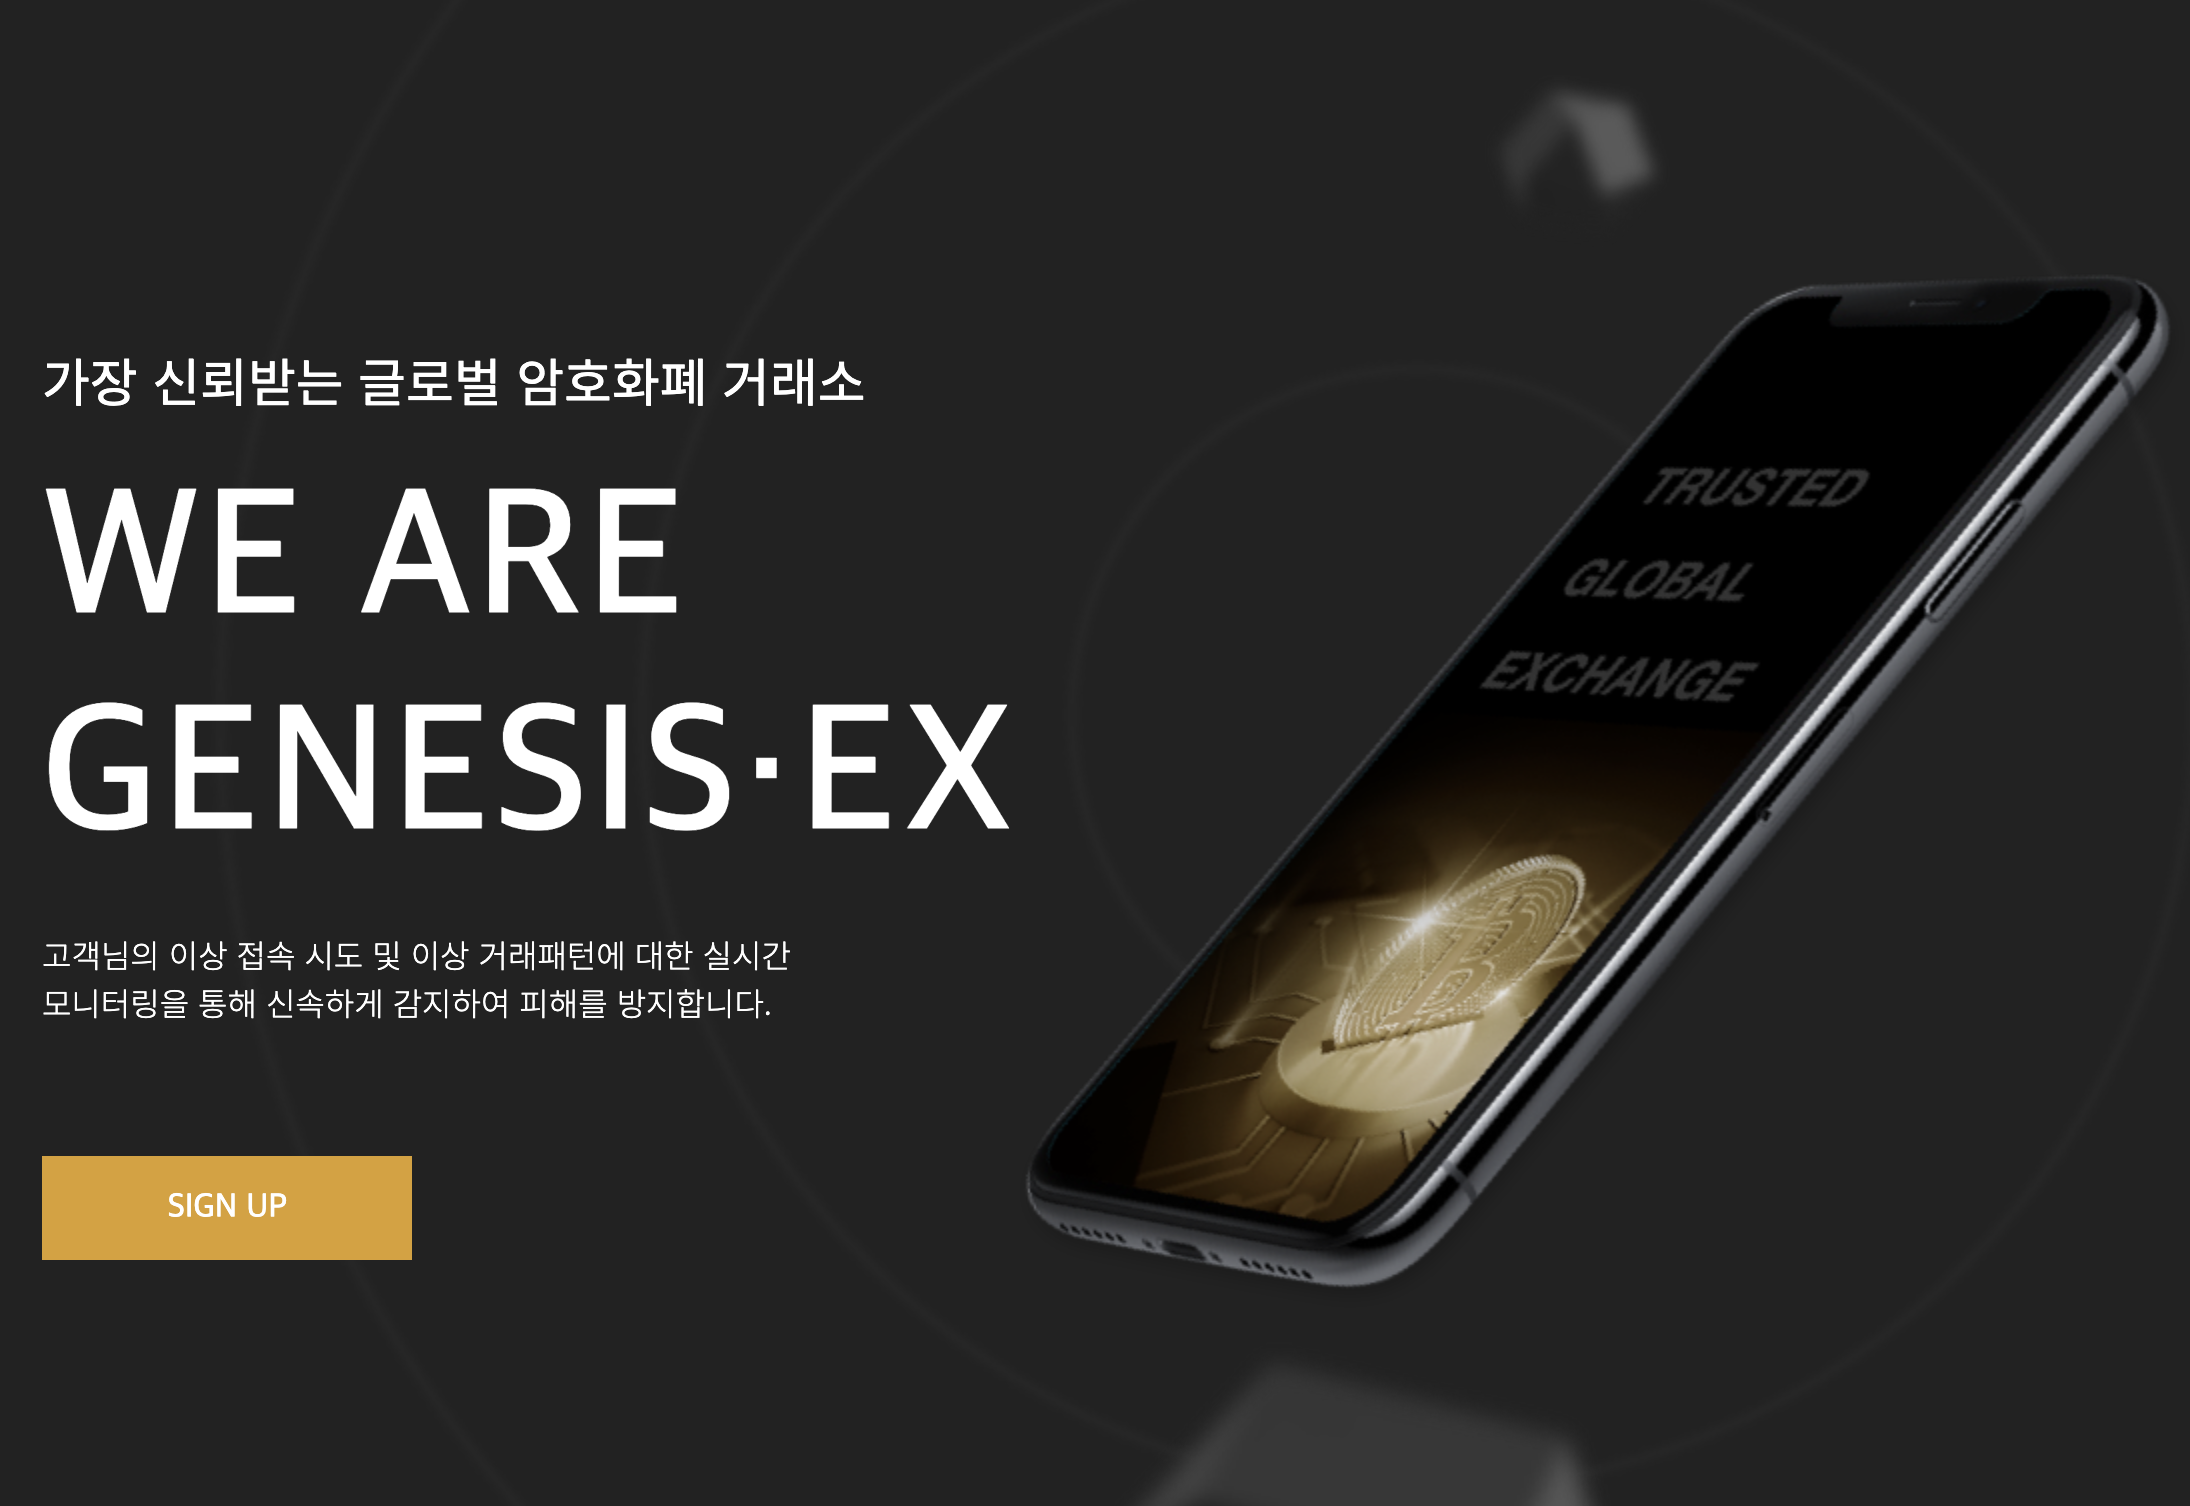
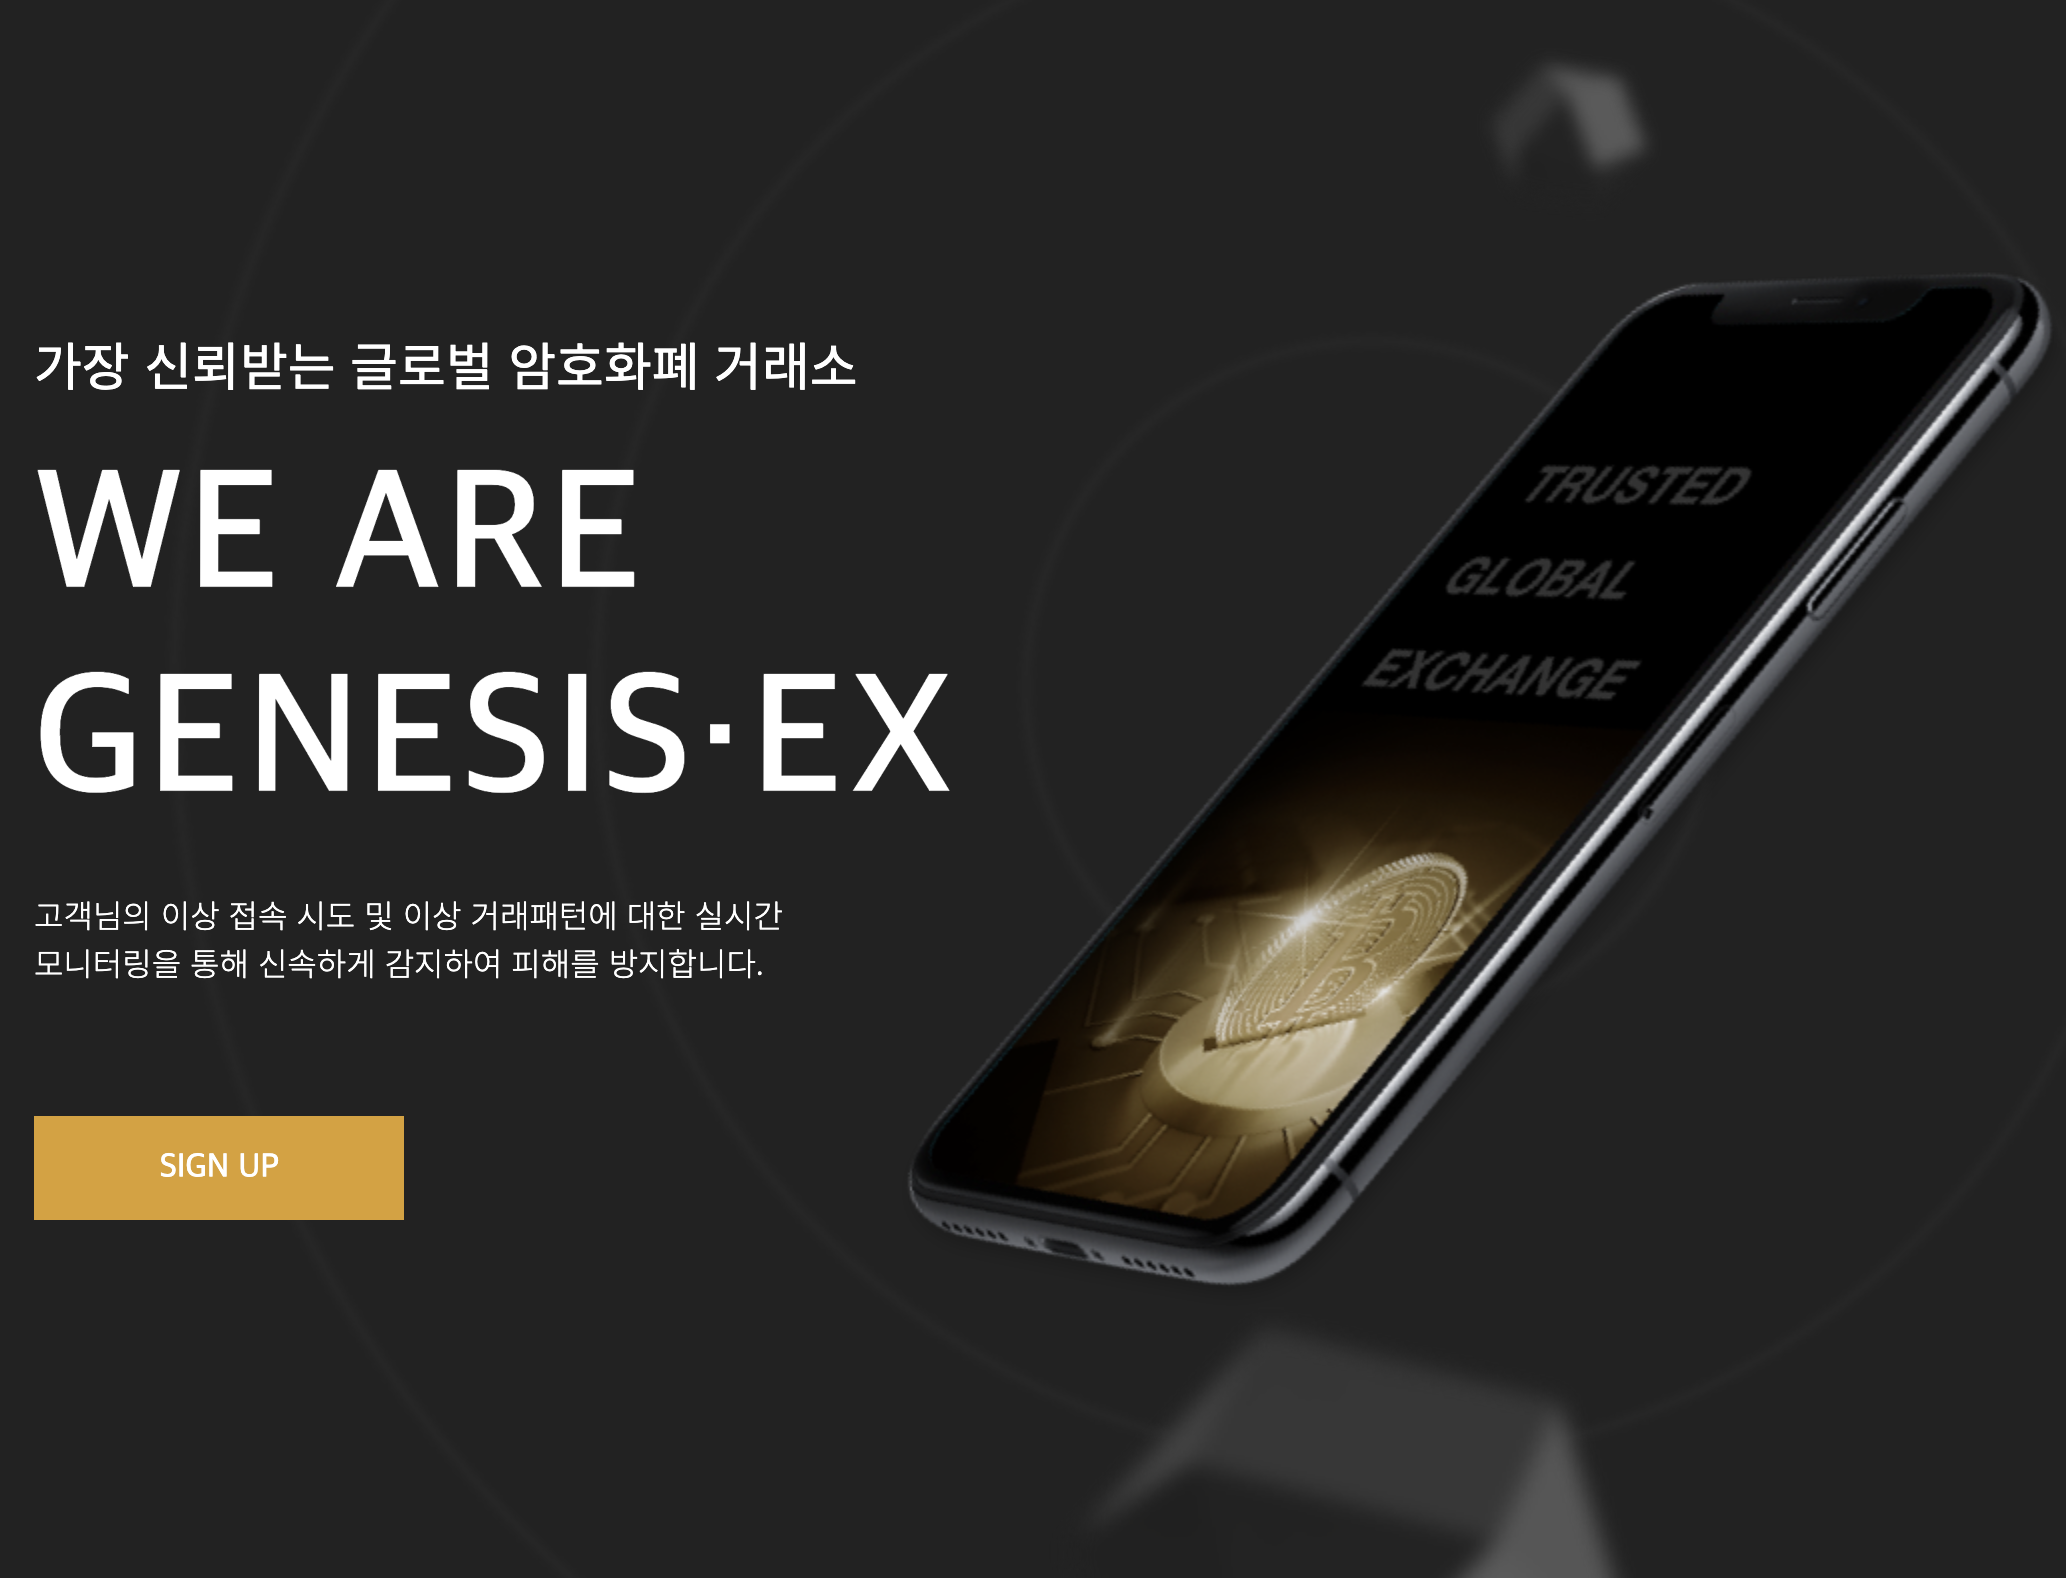
main page mobile 반응형

diff --git a/src/components/home/project/Project.js b/src/components/home/project/Project.js
@@ -7,17 +7,19 @@ import StackItem from "../../common/StackItem";
 const Project = ({ item }) => {
   return (
     <ProjectItem to={`/detail/${item.id}`}>
-      <ImageBox>
-        <img src={item.thumbnail} alt="project thumbnail" />
+      <ImageBox img={item.thumbnail}>
+        {/* <img src={item.thumbnail} alt="project thumbnail" /> */}
       </ImageBox>
-      <TypeText>{item.type} project</TypeText>
-      <Title>{item.title}</Title>
-      <SubText>{item.summary}</SubText>
-      <StackBox>
-        {item.stack.map((stack, index) => (
-          <StackItem key={index} stack={stack} />
-        ))}
-      </StackBox>
+      <MetaBox>
+        <TypeText>{item.type} project</TypeText>
+        <Title>{item.title}</Title>
+        <SubText>{item.summary}</SubText>
+        <StackBox>
+          {item.stack.map((stack, index) => (
+            <StackItem key={index} stack={stack} />
+          ))}
+        </StackBox>
+      </MetaBox>
     </ProjectItem>
   );
 };
@@ -33,6 +35,26 @@ const ProjectItem = styled(Link)`
 
   & + & {
     margin-left: 0.5rem;
+
+    @media only screen and (max-width: 600px) {
+      margin-left: 0;
+    }
+  }
+
+  @media only screen and (max-width: 1200px) {
+    width: 32%;
+  }
+
+  @media only screen and (max-width: 850px) {
+    width: 48%;
+  }
+
+  @media only screen and (max-width: 600px) {
+    width: 100%;
+    flex-direction: row;
+    padding: 1rem 0;
+    height: 12rem;
+    margin-left: 0;
   }
 `;
 
@@ -42,8 +64,21 @@ const ImageBox = styled.div`
   height: 10rem;
   border-radius: 10px;
   overflow: hidden;
-  & > img {
-    width: 100%;
+  background: ${(props) => `url("${props.img}")`};
+  background-size: cover;
+  background-position: top;
+  background-repeat: no-repeat;
+
+  @media only screen and (max-width: 600px) {
+    flex: 1;
+    height: 100%;
+  }
+`;
+
+const MetaBox = styled.div`
+  @media only screen and (max-width: 600px) {
+    width: 60%;
+    margin-left: 1rem;
   }
 `;
 const TypeText = styled.span`
@@ -56,6 +91,10 @@ const Title = styled.div`
   color: ${palette.white};
   font-weight: 600;
   margin: 0.1rem 0 0.5rem;
+  @media only screen and (max-width: 480px) {
+    font-size: 1rem;
+    margin: 0.1rem 0 0.3rem;
+  }
 `;
 
 const SubText = styled.span`
@@ -63,6 +102,9 @@ const SubText = styled.span`
   color: ${palette.text_gray};
   word-break: keep-all;
   margin-bottom: 0.2rem;
+  @media only screen and (max-width: 480px) {
+    font-size: 0.9rem;
+  }
 `;
 
 const StackBox = styled.div`

diff --git a/src/components/home/skill/Skill.js b/src/components/home/skill/Skill.js
@@ -32,6 +32,13 @@ const SkillItem = styled.div`
 
   & + & {
     margin-left: 1rem;
+    @media only screen and (max-width: 480px) {
+      margin-left: 0.5rem;
+    }
+  }
+  @media only screen and (max-width: 480px) {
+    min-width: 5.5rem;
+    padding: 0.8rem;
   }
 `;
 
@@ -39,17 +46,27 @@ const IconBox = styled.div`
   font-size: 2rem;
   color: ${(props) => props.color || palette.white};
   margin-bottom: 0.5rem;
+  @media only screen and (max-width: 480px) {
+    font-size: 1.8rem;
+    margin-bottom: 0.2rem;
+  }
 `;
 
 const Category = styled.span`
   font-size: 0.8rem;
   color: ${palette.text_gray};
+  @media only screen and (max-width: 480px) {
+    font-size: 0.7rem;
+  }
 `;
 
 const SkillName = styled.div`
   font-size: 1rem;
   color: ${palette.white};
   margin: 0.2rem 0 0.5rem;
+  @media only screen and (max-width: 480px) {
+    font-size: 0.9rem;
+  }
 `;
 
 const Level = styled.div`
@@ -57,6 +74,9 @@ const Level = styled.div`
   width: 100%;
   display: flex;
   padding: 0 0.2rem;
-  justify-content: flex-end;
+  justify-content: center;
+  @media only screen and (max-width: 480px) {
+    font-size: 0.7rem;
+  }
 `;
 export default Skill;

diff --git a/src/components/common/BgSection.js b/src/components/common/BgSection.js
@@ -1,5 +1,5 @@
 import React from "react";
-import styled, { css } from "styled-components";
+import styled from "styled-components";
 
 const BgSection = ({ bgName, children }) => {
   return (
@@ -17,19 +17,22 @@ const Bg = styled.div`
   width: 100%;
   height: 32rem;
   position: fixed;
-  ${(props) =>
-    css`
-      background: url("../images/${props.bgName}.jpg");
-    `}
+  background: ${(props) => `url("../images/${props.bgName}.jpg")`};
   background-size: cover;
   background-position: center;
   background-repeat: no-repeat;
   top: 0;
+  @media only screen and (max-width: 480px) {
+    height: 23rem;
+  }
 `;
 const MainBolok = styled.section`
   width: 100%;
   height: 32rem;
   position: relative;
+  @media only screen and (max-width: 480px) {
+    height: 23rem;
+  }
 `;
 
 const MainWrap = styled.div`
@@ -58,6 +61,9 @@ const GradientBox = styled.div`
     rgba(0, 0, 0, 1) 8.98%,
     rgba(0, 0, 0, 0) 100%
   );
+  @media only screen and (max-width: 480px) {
+    height: 8rem;
+  }
 `;
 
 export default BgSection;

diff --git a/src/components/common/List.js b/src/components/common/List.js
@@ -76,6 +76,10 @@ const MoveButton = styled.button`
       right: unset;
       left: -1.5rem;
     `}
+
+  @media only screen and (max-width: 1200px) {
+    display: none;
+  }
 `;
 
 const ListBlock = styled.div`
@@ -96,6 +100,18 @@ const ListBlock = styled.div`
   padding-bottom: 1rem;
   &::-webkit-scrollbar {
     visibility: hidden;
+  }
+  @media only screen and (max-width: 1200px) {
+    &::-webkit-scrollbar {
+      width: 4px;
+      height: 4px;
+      border-radius: 6px;
+      background: rgba(255, 255, 255, 0.2);
+    }
+    &::-webkit-scrollbar-thumb {
+      background-color: rgba(255, 255, 255, 0.3);
+      border-radius: 6px;
+    }
   }
 `;
 

diff --git a/src/components/common/Section.js b/src/components/common/Section.js
@@ -47,6 +47,9 @@ const SectionBlock = styled.div`
     css`
       padding: 2rem 1rem;
     `}
+  @media only screen and (max-width: 480px) {
+    padding: 2rem 1rem;
+  }
 `;
 
 const SectionTitleBox = styled.div`
@@ -59,6 +62,9 @@ const SectionTitleBox = styled.div`
     css`
       margin-bottom: 0.5rem;
     `}
+  @media only screen and (max-width: 480px) {
+    margin-bottom: 0.5rem;
+  }
 `;
 
 const Title = styled.div`
@@ -71,6 +77,10 @@ const Title = styled.div`
     css`
       font-size: 1.8rem;
     `}
+  @media only screen and (max-width: 480px) {
+    font-size: 1.8rem;
+    margin-bottom: 0;
+  }
 `;
 
 export default Section;

diff --git a/src/components/home/main/MainSection.js b/src/components/home/main/MainSection.js
@@ -26,10 +26,15 @@ const Title = styled.h1`
   font-size: 2.5rem;
   font-weight: 900;
   margin: 0rem 0;
-
+  @media only screen and (max-width: 480px) {
+    font-size: 2rem;
+  }
   & > span {
     font-weight: 500;
     font-size: 2.2rem;
+    @media only screen and (max-width: 480px) {
+      font-size: 1.5rem;
+    }
   }
 `;
 
@@ -38,6 +43,9 @@ const Desc = styled.p`
   font-size: 1.7rem;
   font-weight: 500;
   margin: 0;
+  @media only screen and (max-width: 480px) {
+    font-size: 1.1rem;
+  }
 `;
 
 export default MainSection;

diff --git a/src/components/common/Bottom.js b/src/components/common/Bottom.js
@@ -7,6 +7,12 @@ const Bottom = () => {
 
 const StyledBottom = styled.div`
   height: 10rem;
+  @media only screen and (max-width: 850px) {
+    height: 6rem;
+  }
+  @media only screen and (max-width: 600px) {
+    height: 3rem;
+  }
 `;
 
 export default Bottom;

diff --git a/src/components/common/Button.js b/src/components/common/Button.js
@@ -45,6 +45,9 @@ const buttonStyle = css`
     border-color: ${palette.gray};
     color: ${palette.text_gray};
   }
+  @media only screen and (max-width: 480px) {
+    font-size: 0.8rem;
+  }
 `;
 
 const StyledLink = styled(Link)`
